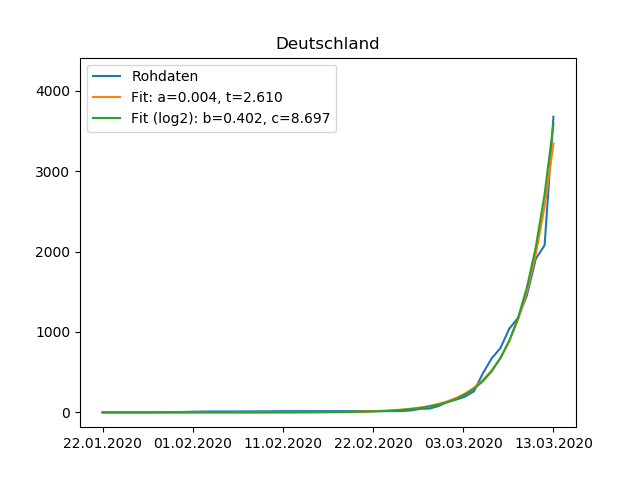
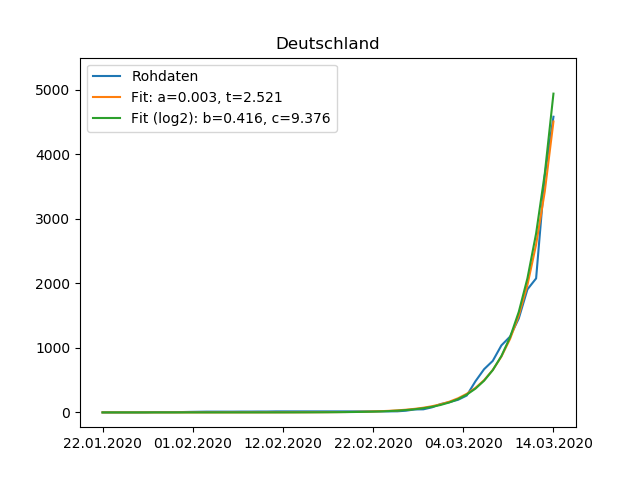
added more countries, updated data

diff --git a/plot.py b/plot.py
@@ -6,22 +6,39 @@ import matplotlib.pyplot as plt
 from scipy.optimize import curve_fit
 import numpy as np
 
-countries = ['Germany', 'Italy', 'Korea, South']
+countries = ['Germany', 'Italy', 'Korea, South', 'Spain', 'France', 'US', 'Japan'] # 'China'
 epsilon = 1e-6
 translation = {'Germany': 'Deutschland',
         'Italy': 'Italien',
-        'Korea, South': 'Südkorea'}
+        'Korea, South': 'Südkorea',
+        'Spain': 'Spanien',
+        'France': 'Frankreich',
+        'US': 'USA',
+        'Japan': 'Japan',
+        'China': 'China'}
 
 # load data
 data = pandas.read_csv('COVID-19/csse_covid_19_data/csse_covid_19_time_series/time_series_19-covid-Confirmed.csv')
+# drop provinces of France, data has already accumulated entry
+data = data.drop(data[(data['Country/Region'] == 'France') & (data['Province/State'] != 'France')].index)
+def collapse(data, country):
+    data_country = data[data['Country/Region'] == country].sum()
+    data_country['Country/Region'] = country
+    data = data.drop(data[data['Country/Region'] == country].index)
+    data = data.append(data_country, ignore_index=True)
+    return data
+# collapse entries of US
+data = collapse(data, 'US')
+# collapse entries of China
+data = collapse(data, 'China')
 
-# filter cases in Germany
+# filter countries
 data = data[data['Country/Region'].isin(countries)]
-# generate mapping of index to country
-indices_countries = {index: translation[countries[i]] for i, index in enumerate(data.index.to_list())}
-countries = [translation[country] for country in countries]
 # check if number of found data rows equals number of queries
 assert(len(data.index) == len(countries))
+# generate mapping of index to country
+indices_countries = {data[data['Country/Region'] == country].index[0]: translation[country] for country in countries}
+countries = [translation[country] for country in countries]
 
 # remove columns that are not needed anymore
 data = data.drop(labels=['Province/State', 'Country/Region', 'Lat', 'Long'], axis='columns')
@@ -59,9 +76,12 @@ def exp_func(x, a, t):
 figT, axT = plt.subplots()
 index_dates = data.index.to_list()
 index = np.arange(len(index_dates))
-for country in countries:
-    cases_min = 50 # min cases for fitting curves
+cases_min = 30 # min cases for fitting curves
+xlim_max = 0
+for j, country in enumerate(countries):
     cases = np.array(data[country].to_list())
+    if j == 0:
+        xlim_max = len(cases[cases > cases_min])
     # fit in original space
     (a, t), (a_cov, t_cov) = curve_fit(exp_func, index, cases, maxfev=1000)
     # fit in log space
@@ -82,8 +102,7 @@ for country in countries:
     fig.savefig(country.replace('ü', 'ue') + '_fit.png')
 
     # piece-wise fitting of exponential function
-    interval = 3 # in days
-    cases_min = 30 # min cases for fitting curves
+    interval = 4 # in days
     fit_over_time = []
     for i in range(len(cases) - interval):
         if cases[i] > cases_min:
@@ -98,7 +117,9 @@ for country in countries:
 
 # formatting
 axT.legend()
+axT.set_xlim([0, xlim_max + 5])
 axT.set_ylim([-1, 15])
 axT.set_xlabel('Tage seit Fälle > ' + str(cases_min))
 axT.set_ylabel('Tage bis Fälle verdoppelt')
+axT.set_title('Stand ' + last_date)
 figT.savefig('tau.png')

diff --git a/README.md b/README.md
@@ -5,18 +5,18 @@ Visualisierung von Covid-19 Statistiken.
 
 ![Fallzahlen](cases.png) ![Fallzahlen (log)](cases_log.png)
 
+## Zeitverlauf der vorraussichtlichen Zeit bis sich die Fallzahlen verdoppeln
+
+* Für jeden Datenpunkt wird eine lineare Funktion (siehe unten) an `log2(Daten)` gefittet, wobei `Daten` die aktuellsten 4 Datenpunkte für diesen Zeitpunkt sind. Der Parameter `t=1/b` ergibt dann die aktuell prognostizierte Zeitdauer (unter Annahme einer Exponentialfunktionen), bis sich die Fallzahlen verdopplen.
+
+![Fallzahlen](tau.png)
+
 ## Fit von Exponentialfunktionen an die Rohdaten
 
 * `Fit` von `a*2^(x/t)` an die Daten mit der Annahme, dass `exp(-inf) = 0`, d.h. keine Fälle in weiter Vergangenheit.
 * `Fit (log2)` ist der Fit einer linearen Funktion `b*x+c` an `log2(Daten)`, wobei nur Datenpunkte mit Fällen > 50 verwendet werden.
 
-![Fallzahlen](Deutschland_fit.png) ![Fallzahlen (log)](Italien_fit.png) ![Fallzahlen (log)](Suedkorea_fit.png)
-
-## Zeitverlauf der vorraussichtlichen Zeit bis sich die Fallzahlen verdoppeln
-
-* Für jeden Datenpunkt wird eine lineare Funktion (siehe oben) an `log2(Daten)` gefittet, wobei `Daten` die aktuellsten 3 Datenpunkte für diesen Zeitpunkt sind. Der Parameter `t=1/b` ergibt dann die aktuell prognostizierte Zeitdauer (unter Annahme einer Exponentialfunktionen), bis sich die Fallzahlen verdopplen.
-
-![Fallzahlen](tau.png)
+![Fallzahlen](Deutschland_fit.png)
 
 ## Verwendung des Quelltextes
 
